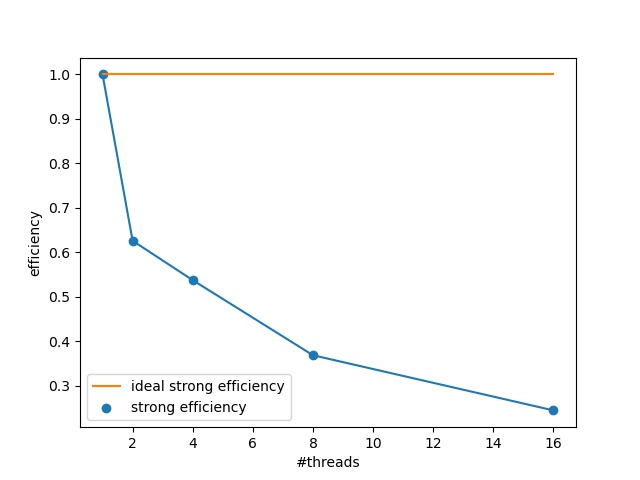
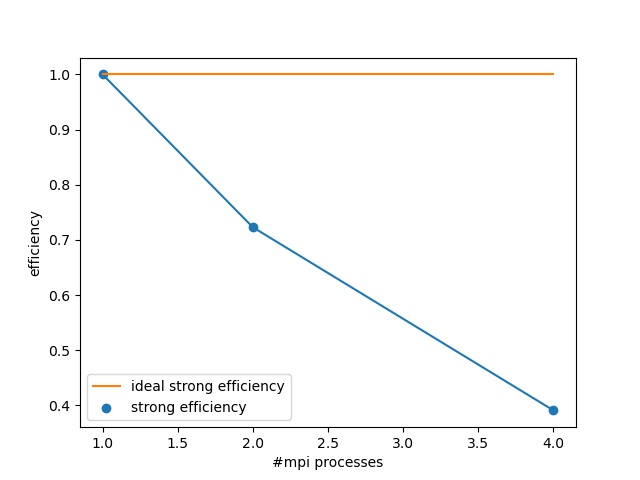
update

diff --git a/assignment2/hybrid/openMPI_scalability/plot.py b/assignment2/hybrid/openMPI_scalability/plot.py
@@ -3,55 +3,55 @@ import pandas as pd
 
 if __name__ == '__main__':
   df = pd.read_csv("strong_scalability.csv")
-  threads = df['#threads'].values
+  processes = df['#mpi processes'].values
   runtimes = df['total runtime'].values
   speedup = [runtimes[0] / x for x in runtimes]
 
   print(speedup)
 
-  plt.scatter(threads, speedup, label='strong scaling')
-  plt.plot(threads, speedup)
-  plt.plot(threads, threads, label='linear speedup')
+  plt.scatter(processes, speedup, label='strong scaling')
+  plt.plot(processes, speedup)
+  plt.plot(processes, processes, label='linear speedup')
   plt.ylabel('speedup')
-  plt.xlabel('#threads')
+  plt.xlabel('#mpi processes')
   plt.legend(loc="upper left")
   plt.savefig("strong_scaling_plot.jpeg")
   plt.clf()
 
-  efficiency = [speedup[i]/threads[i] for i in range(0,len(threads))]
-  plt.scatter(threads, efficiency, label='strong efficiency')
-  plt.plot(threads, efficiency)
-  plt.plot(threads, [1 for _ in threads], label='ideal strong efficiency')
+  efficiency = [speedup[i]/processes[i] for i in range(0,len(processes))]
+  plt.scatter(processes, efficiency, label='strong efficiency')
+  plt.plot(processes, efficiency)
+  plt.plot(processes, [1 for _ in processes], label='ideal strong efficiency')
   plt.ylabel('efficiency')
-  plt.xlabel('#threads')
+  plt.xlabel('#mpi processes')
   plt.legend(loc="lower left")
   plt.savefig("strong_efficiency_plot.jpeg")
   plt.clf()
 
   df = pd.read_csv("weak_scalability.csv")
-  threads = df['#threads'].values
+  processes = df['#mpi processes'].values
   runtimes = df['total runtime'].values
   speedup = []
-  for counter in range(1,10,2):
+  for counter in range(1,6,2):
     speedup.append(runtimes[counter] / runtimes[counter -1])
 
   print(speedup)
 
-  efficiency = [speedup[i]/threads[::2][i] for i in range(0,len(threads[::2]))]
-  plt.scatter(threads[::2], efficiency, label='weak efficiency')
-  plt.plot(threads[::2], efficiency)
-  plt.plot(threads[::2], [1 for _ in threads[::2]], label='ideal weak efficiency')
+  efficiency = [speedup[i]/processes[::2][i] for i in range(0,len(processes[::2]))]
+  plt.scatter(processes[::2], efficiency, label='weak efficiency')
+  plt.plot(processes[::2], efficiency)
+  plt.plot(processes[::2], [1 for _ in processes[::2]], label='ideal weak efficiency')
   plt.ylabel('efficiency')
-  plt.xlabel('#threads')
+  plt.xlabel('#mpi processes')
   plt.legend(loc="lower left")
   plt.savefig("weak_efficiency_plot.jpeg")
   plt.clf()
 
-  plt.scatter(threads[::2], speedup, label='weak scaling')
-  plt.plot(threads[::2], speedup)
-  plt.plot(threads[::2], threads[::2], label='linear speedup')
+  plt.scatter(processes[::2], speedup, label='weak scaling')
+  plt.plot(processes[::2], speedup)
+  plt.plot(processes[::2], processes[::2], label='linear speedup')
   plt.ylabel('speedup')
-  plt.xlabel('#threads')
+  plt.xlabel('#mpi processes')
   plt.legend(loc="upper left")
   plt.savefig("weak_scaling_plot.jpeg")
   plt.clf()
